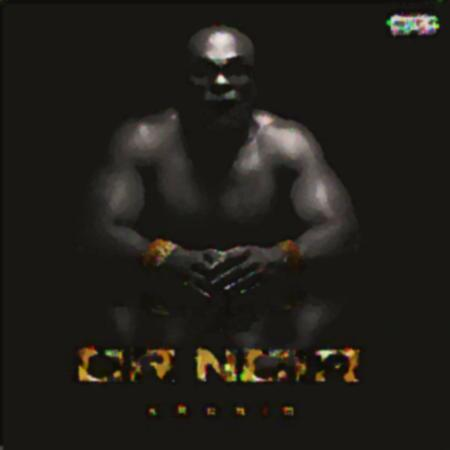
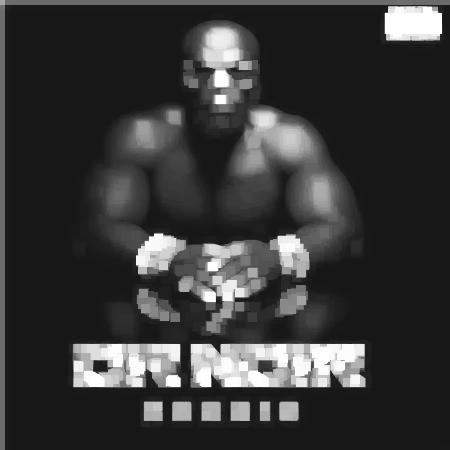
effect of dilatation

Changed region(s): [[0.0, 0.0, 1.0, 1.0], [0.2489, 0.2178, 0.4356, 0.3422], [0.4044, 0.3422, 0.4356, 0.3733]]

diff --git a/features3.py b/features3.py
@@ -1,0 +1,43 @@
+from PIL import Image, ImageFilter
+#import logger
+
+def apply_dilate_effect(input_path: str, output_path: str = None, k_size: int = 3):
+    """
+    Applique un effet de dilatation à une image et gère les erreurs.
+
+    Parameters:
+    - input_path (str): Chemin de l'image source.
+    - output_path (str): Chemin pour sauvegarder l'image dilatée (optionnel).
+    - k_size (int): Taille du noyau pour la dilatation (par défaut : 3x3).
+
+    Returns:
+    - Image avec l'effet de dilatation appliqué.
+    """
+    try:
+        # Charger l'image
+        img = Image.open(input_path)
+        
+        # Convertir en niveaux de gris (optionnel)
+        img = img.convert("L")
+        
+        # Appliquer l'effet de dilatation
+        dilated_img = img.filter(ImageFilter.MaxFilter(size=k_size))
+        
+        # Afficher le résultat
+        dilated_img.show()
+
+        # Sauvegarder l'image si un chemin est spécifié
+        if output_path:
+            dilated_img.save(output_path)
+            print(f"Image sauvegardée à : {output_path}")
+        
+        return dilated_img
+    #logger.log(f"le filtre de dilatation à été appliqué a l'image")
+
+    except FileNotFoundError:
+        print(f"Erreur : Le fichier {input_path} n'a pas été trouvé.")
+    except PermissionError:
+        print(f"Erreur : Impossible d'accéder à {input_path}. Vérifiez les permissions.")
+    except Exception as e:
+        print(f"Une erreur s'est produite : {e}")
+
